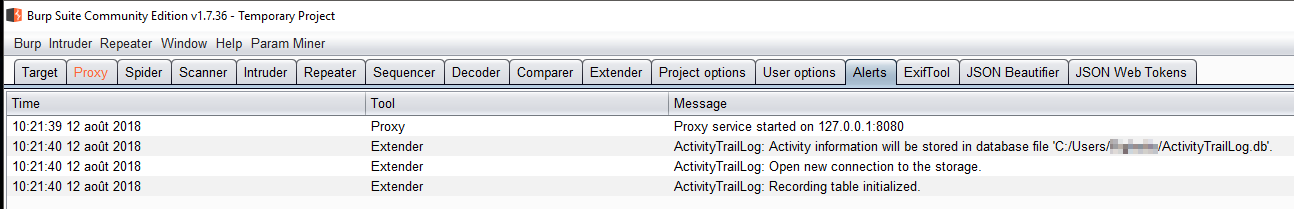
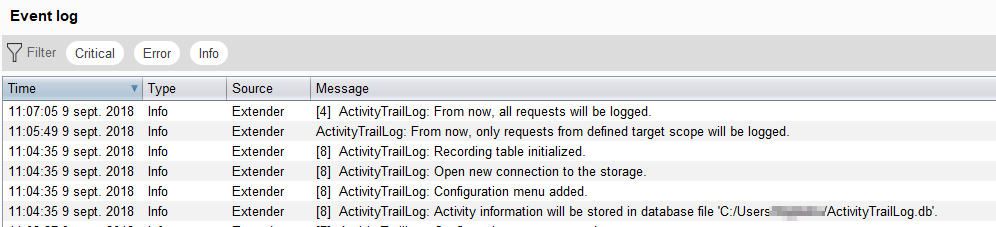
Add the option to restrict the logging to the requests that are included into the defined target scope.

diff --git a/src/burp/ConfigMenu.java b/src/burp/ConfigMenu.java
@@ -1,0 +1,125 @@
+package burp;
+
+import javax.swing.AbstractAction;
+import javax.swing.JCheckBoxMenuItem;
+import javax.swing.JFrame;
+import javax.swing.JMenu;
+import javax.swing.JMenuBar;
+import java.awt.Frame;
+import java.awt.event.ActionEvent;
+
+/**
+ * Menu to configure the extension options. Currently, there only a single option that allow to restrict the logging to defined target scope.
+ */
+class ConfigMenu implements Runnable, IExtensionStateListener {
+
+    /**
+     * Expose the single configuration option to the extension classes.
+     */
+    static volatile boolean ONLY_INCLUDE_REQUESTS_FROM_SCOPE = Boolean.FALSE;
+
+    /**
+     * Option configuration key.
+     */
+    private static final String CFG_KEY = "ONLY_INCLUDE_REQUESTS_FROM_SCOPE";
+
+    /**
+     * Extension root configuration menu.
+     */
+    private JMenu cfgMenu;
+
+    /**
+     * Ref on Burp tool to manipulate the HTTP requests and have access to API to identify the source of the activity (tool name).
+     */
+    private IBurpExtenderCallbacks callbacks;
+
+    /**
+     * Ref on project logger.
+     */
+    private Trace trace;
+
+
+    /**
+     * Constructor.
+     *
+     * @param callbacks Ref on Burp tool to manipulate the HTTP requests and have access to API to identify the source of the activity (tool name).
+     * @param trace     Ref on project logger.
+     */
+    ConfigMenu(IBurpExtenderCallbacks callbacks, Trace trace) {
+        this.callbacks = callbacks;
+        this.trace = trace;
+        //Load the save state of the options
+        String value = this.callbacks.loadExtensionSetting(CFG_KEY);
+        if (value != null) {
+            ONLY_INCLUDE_REQUESTS_FROM_SCOPE = Boolean.parseBoolean(value);
+        }
+    }
+
+    /**
+     * Build the options menu used to configure the extension.
+     */
+    @Override
+    public void run() {
+        //Build the menu
+        String menuText = "Log only requests from defined target scope";
+        this.cfgMenu = new JMenu("Audit Trail");
+        final JCheckBoxMenuItem scopeMenuItem = new JCheckBoxMenuItem(menuText, ONLY_INCLUDE_REQUESTS_FROM_SCOPE);
+        scopeMenuItem.addActionListener(new AbstractAction(menuText) {
+            public void actionPerformed(ActionEvent e) {
+                if (scopeMenuItem.isSelected()) {
+                    ConfigMenu.this.callbacks.saveExtensionSetting(CFG_KEY, Boolean.TRUE.toString());
+                    ConfigMenu.this.ONLY_INCLUDE_REQUESTS_FROM_SCOPE = Boolean.TRUE;
+                    ConfigMenu.this.trace.writeLog("From now, only requests from defined target scope will be logged.");
+                } else {
+                    ConfigMenu.this.callbacks.saveExtensionSetting(CFG_KEY, Boolean.FALSE.toString());
+                    ConfigMenu.this.ONLY_INCLUDE_REQUESTS_FROM_SCOPE = Boolean.FALSE;
+                    ConfigMenu.this.trace.writeLog("From now, all requests will be logged.");
+                }
+            }
+        });
+        this.cfgMenu.add(scopeMenuItem);
+        //Add it to BURP menu
+        JFrame burpFrame = ConfigMenu.getBurpFrame();
+        if (burpFrame != null) {
+            JMenuBar jMenuBar = burpFrame.getJMenuBar();
+            jMenuBar.add(this.cfgMenu);
+            jMenuBar.repaint();
+            this.trace.writeLog("Configuration menu added.");
+        } else {
+            this.trace.writeLog("Cannot add the configuration menu (ref on the BURP frame is null).");
+        }
+    }
+
+    /**
+     * Remove the menu from BURP menu bar.
+     *
+     * @see "https://github.com/PortSwigger/param-miner/blob/master/src/burp/Utilities.java"
+     */
+    @Override
+    public void extensionUnloaded() {
+        JFrame burpFrame = ConfigMenu.getBurpFrame();
+        if (burpFrame != null && this.cfgMenu != null) {
+            JMenuBar jMenuBar = burpFrame.getJMenuBar();
+            jMenuBar.remove(this.cfgMenu);
+            jMenuBar.repaint();
+            this.trace.writeLog("Configuration menu removed.");
+        } else {
+            this.trace.writeLog("Cannot remove the configuration menu (ref on the BURP frame is null).");
+        }
+    }
+
+    /**
+     * Get a reference on the BURP main frame.
+     *
+     * @return BURP main frame.
+     * @see "https://github.com/PortSwigger/param-miner/blob/master/src/burp/Utilities.java"
+     */
+    private static JFrame getBurpFrame() {
+        for (Frame f : Frame.getFrames()) {
+            if (f.isVisible() && f.getTitle().startsWith(("Burp Suite"))) {
+                return (JFrame) f;
+            }
+        }
+        return null;
+    }
+}

diff --git a/src/burp/ActivityHttpListener.java b/src/burp/ActivityHttpListener.java
@@ -16,14 +16,21 @@ class ActivityHttpListener implements IHttpListener {
     private Trace trace;
 
     /**
+     * Ref on Burp tool to manipulate the HTTP requests and have access to API to identify the source of the activity (tool name).
+     */
+    private IBurpExtenderCallbacks callbacks;
+
+    /**
      * Constructor.
      *
      * @param activityLogger Ref on handler that will store the activity information into the activity log storage.
      * @param trace          Ref on project logger.
+     * @param callbacks      Ref on Burp tool to manipulate the HTTP requests and have access to API to identify the source of the activity (tool name).
      */
-    ActivityHttpListener(ActivityLogger activityLogger, Trace trace) {
+    ActivityHttpListener(ActivityLogger activityLogger, Trace trace, IBurpExtenderCallbacks callbacks) {
         this.activityLogger = activityLogger;
         this.trace = trace;
+        this.callbacks = callbacks;
     }
 
     /**
@@ -31,9 +38,20 @@ class ActivityHttpListener implements IHttpListener {
      */
     public void processHttpMessage(int toolFlag, boolean messageIsRequest, IHttpRequestResponse messageInfo) {
         try {
-            //Save the information of the current request if the message is an HTTP request
+            //Save the information of the current request if the message is an HTTP request and according to the scope restriction option
             if (messageIsRequest) {
-                this.activityLogger.logEvent(toolFlag, messageInfo);
+                boolean mustLogRequest = false;
+                IRequestInfo reqInfo = callbacks.getHelpers().analyzeRequest(messageInfo);
+                if (!ConfigMenu.ONLY_INCLUDE_REQUESTS_FROM_SCOPE) {
+                    mustLogRequest = true;
+                } else if (this.callbacks.isInScope(reqInfo.getUrl())) {
+                    mustLogRequest = true;
+                }
+
+                //Log the request if the condition are meet
+                if (mustLogRequest) {
+                    this.activityLogger.logEvent(toolFlag, reqInfo, messageInfo.getRequest());
+                }
             }
         } catch (Exception e) {
             this.trace.writeLog("Cannot save request: " + e.getMessage());

diff --git a/src/burp/ActivityLogger.java b/src/burp/ActivityLogger.java
@@ -76,17 +76,14 @@ class ActivityLogger implements IExtensionStateListener {
     /**
      * Save an activity event into the storage.
      *
-     * @param toolFlag    A flag indicating the Burp tool that issued the request.
-     *                    Burp tool flags are defined in the
-     *                    <code>IBurpExtenderCallbacks</code> interface.
-     * @param messageInfo Details of the request / response to be processed.
-     *                    Extensions can call the setter methods on this object to update the
-     *                    current message and so modify Burp's behavior.
+     * @param toolFlag   A flag indicating the Burp tool that issued the request.
+     *                   Burp tool flags are defined in the
+     *                   <code>IBurpExtenderCallbacks</code> interface.
+     * @param reqInfo    Details of the request to be processed.
+     * @param reqContent Raw content of the request.
      * @throws Exception If event cannot be saved.
      */
-    void logEvent(int toolFlag, IHttpRequestResponse messageInfo) throws Exception {
-        //Extract useful information from the request
-        IRequestInfo reqInfo = callbacks.getHelpers().analyzeRequest(messageInfo);
+    void logEvent(int toolFlag, IRequestInfo reqInfo, byte[] reqContent) throws Exception {
         //Verify that the DB connection is still opened
         if (this.storageConnection.isClosed()) {
             //Get new one
@@ -100,7 +97,7 @@ class ActivityLogger implements IExtensionStateListener {
             stmt.setString(2, reqInfo.getUrl().toString());
             stmt.setString(3, reqInfo.getMethod());
             stmt.setString(4, callbacks.getToolName(toolFlag));
-            stmt.setString(5, callbacks.getHelpers().bytesToString(messageInfo.getRequest()));
+            stmt.setString(5, callbacks.getHelpers().bytesToString(reqContent));
             stmt.setString(6, LocalDateTime.now().format(this.datetimeFormatter));
             int count = stmt.executeUpdate();
             if (count != 1) {

diff --git a/src/burp/BurpExtender.java b/src/burp/BurpExtender.java
@@ -1,5 +1,6 @@
 package burp;
 
+import javax.swing.SwingUtilities;
 import java.io.File;
 
 /**
@@ -15,11 +16,14 @@ public class BurpExtender implements IBurpExtender {
             String extensionName = "ActivityTrailLog";
             callbacks.setExtensionName(extensionName);
             Trace trace = new Trace(callbacks);
-            String storeFileName = new File(System.getProperty("user.home"),extensionName + ".db").getAbsolutePath().replaceAll("\\\\","/");
+            ConfigMenu configMenu = new ConfigMenu(callbacks, trace);
+            SwingUtilities.invokeLater(configMenu);
+            String storeFileName = new File(System.getProperty("user.home"), extensionName + ".db").getAbsolutePath().replaceAll("\\\\", "/");
             ActivityLogger activityLogger = new ActivityLogger(storeFileName, callbacks, trace);
-            ActivityHttpListener activityHttpListener = new ActivityHttpListener(activityLogger, trace);
+            ActivityHttpListener activityHttpListener = new ActivityHttpListener(activityLogger, trace, callbacks);
             callbacks.registerHttpListener(activityHttpListener);
             callbacks.registerExtensionStateListener(activityLogger);
+            callbacks.registerExtensionStateListener(configMenu);
         } catch (Exception e) {
             callbacks.issueAlert("Cannot start the extension: " + e.getMessage());
         }

diff --git a/README.md b/README.md
@@ -31,6 +31,12 @@ Once loaded, the extension create, if needed, a DB file named **ActivityTrailLog
 
 ![DB Content](example2.png)
 
+There is an option to restrict the logging to the requests that are included into the defined target scope (BURP tab **Target** > **Scope**):
+
+![Option Menu State 1](example3.png)
+
+![Option Menu State 2](example4.png)
+
 # Build the extension JAR file
 
 Use the following command and the JAR file will be located in folder **build/lib**:
@@ -40,6 +46,10 @@ $ gradlew clean fatJar
 ```
 
 # Change log
+
+**1.0.1**
+
+* Add the option to restrict the logging to the requests that are included into the defined target scope.
 
 **1.0.0**
 
